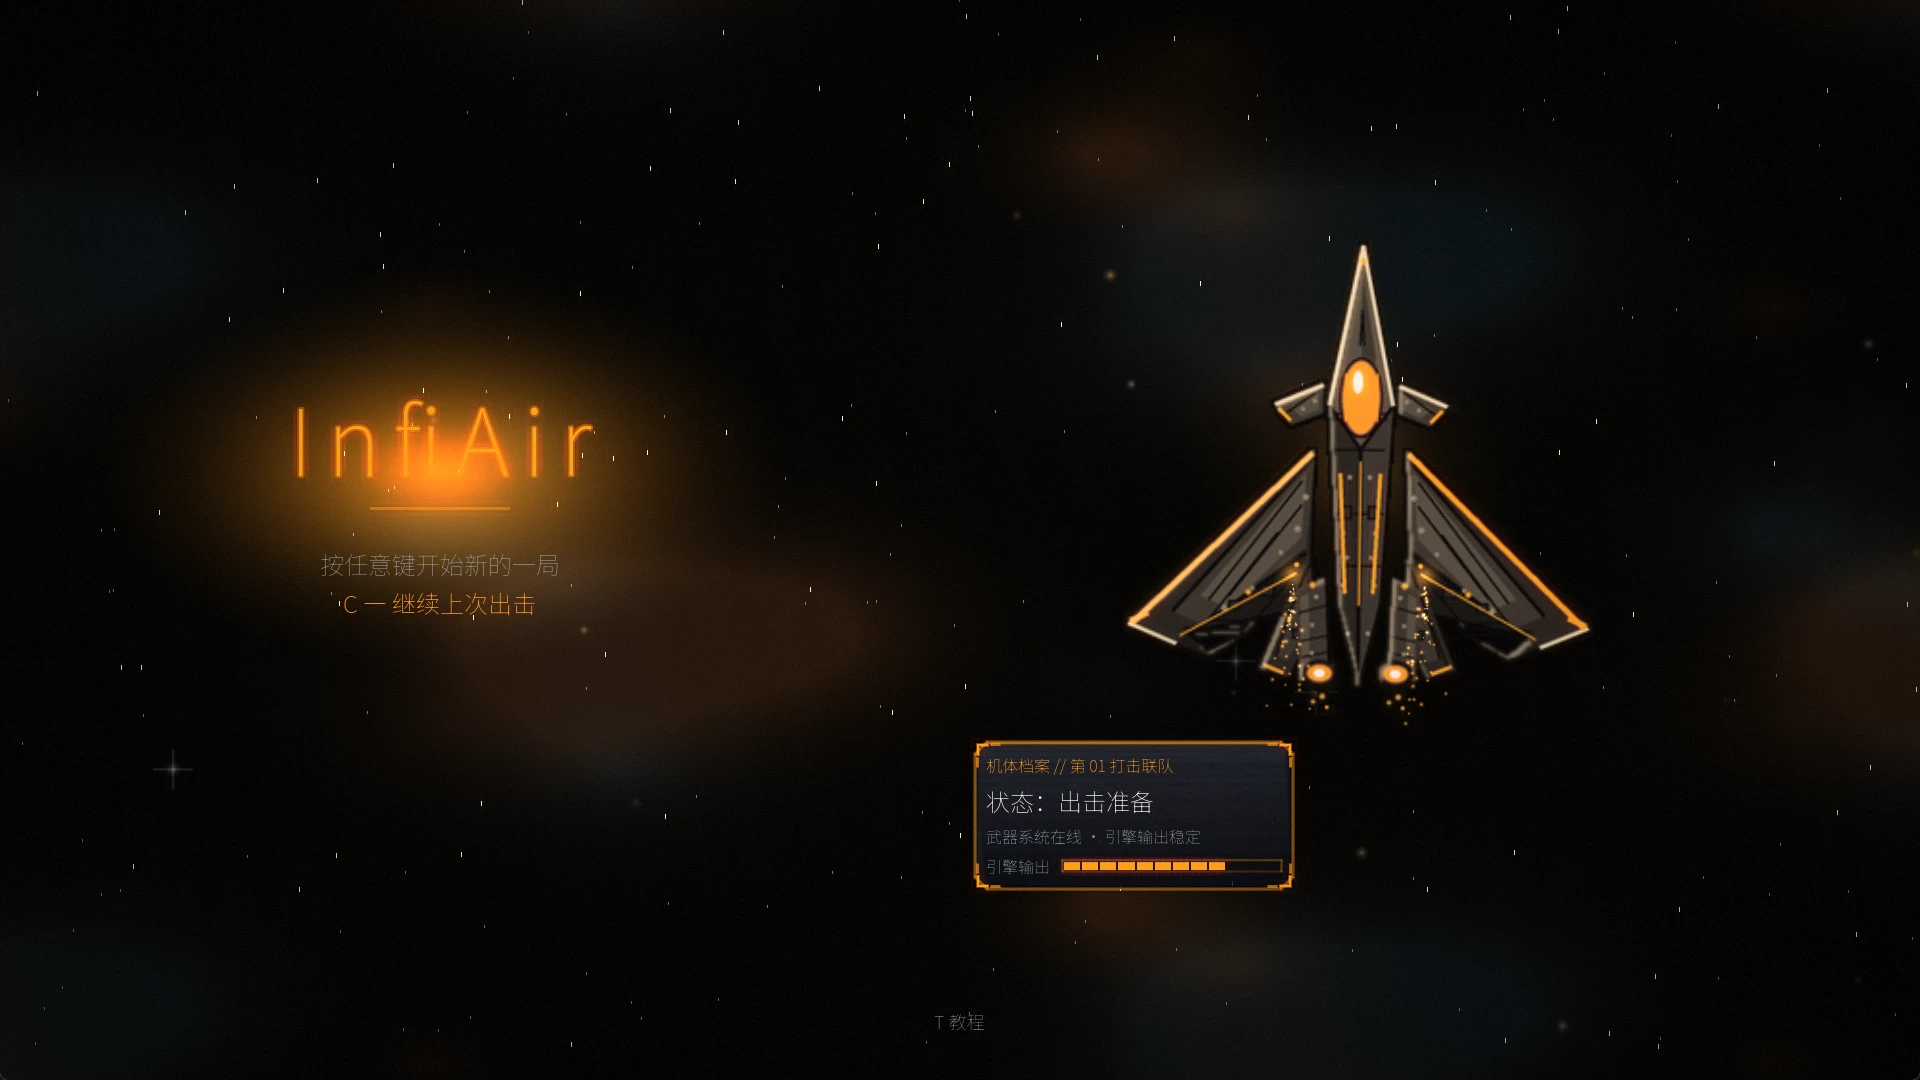
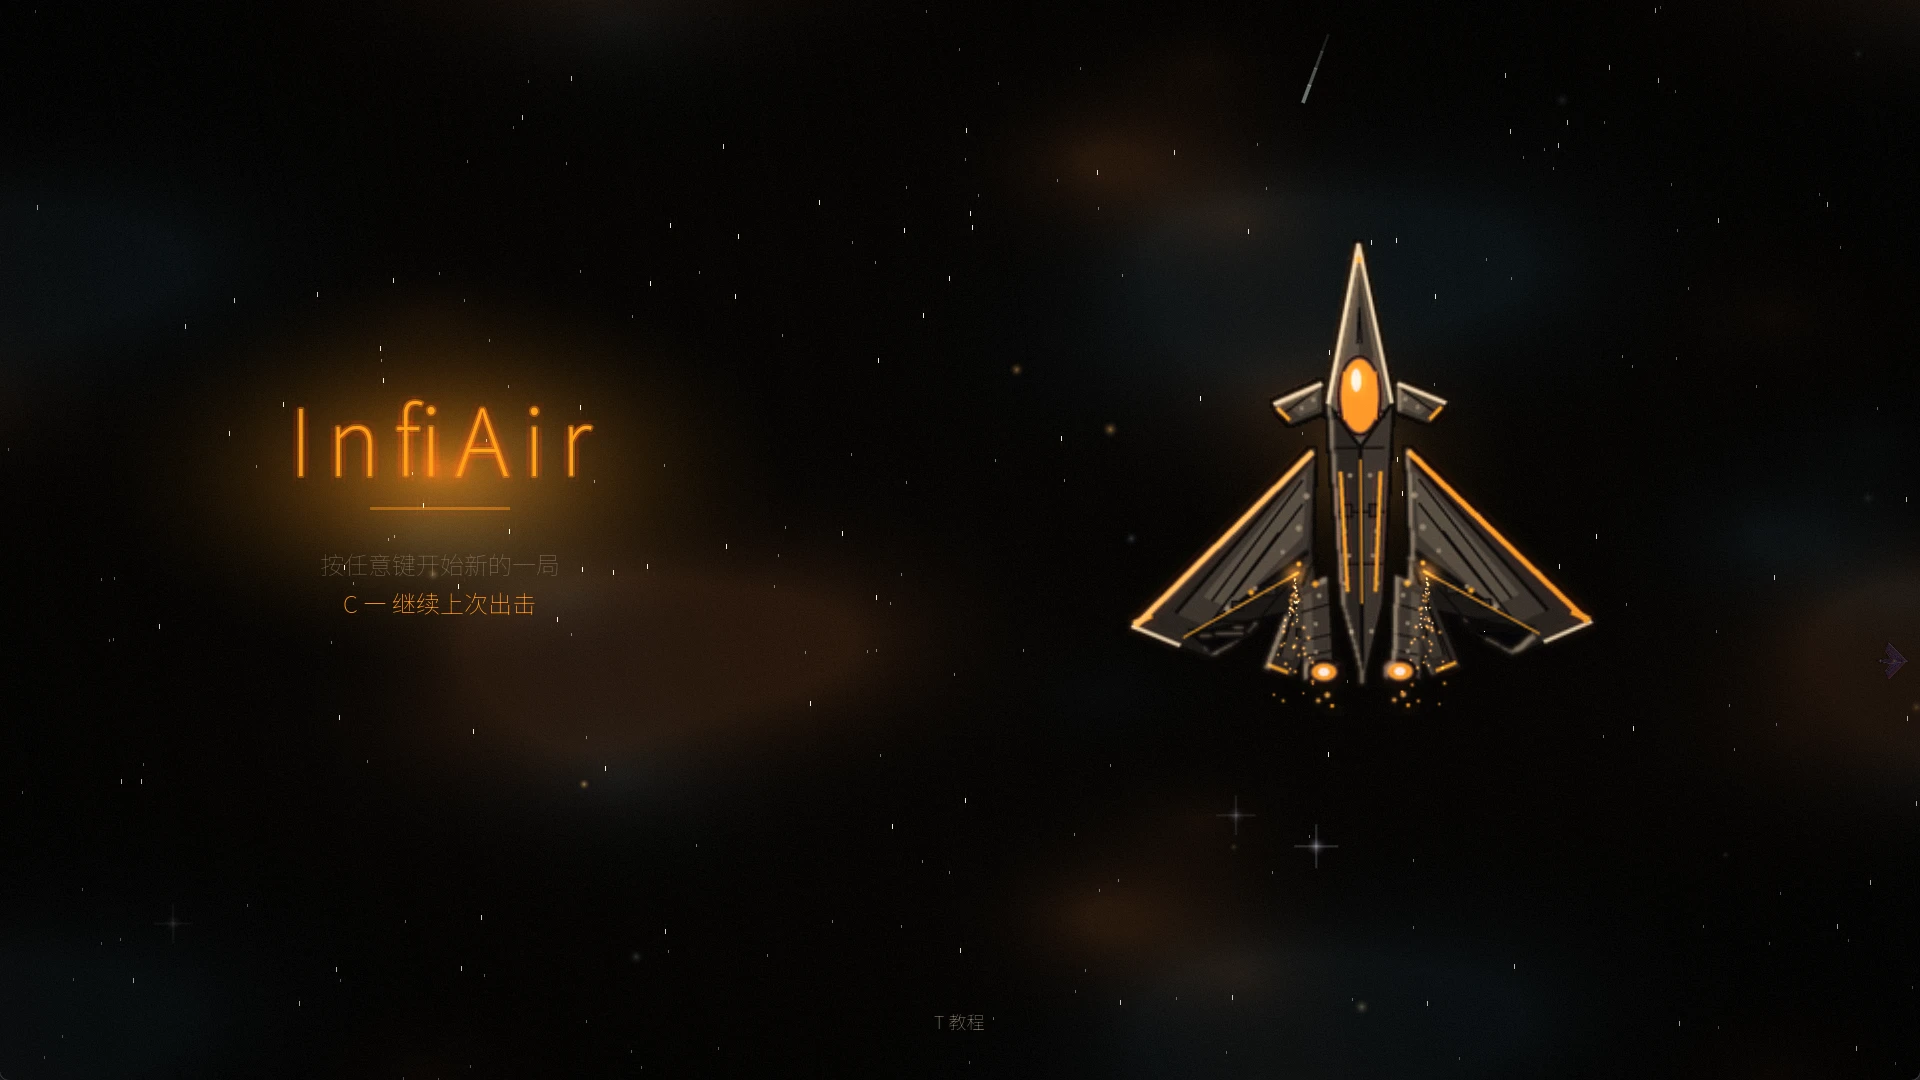
docs: README 截图与配色说明同步新配色
为什么：配色调整后旧截图（青色基地页）与「数据青辅助」描述双双失真，README 是
玩家第一入口，不能展示已不存在的配色。

Changed region(s): [[0.5938, 0.2139, 0.8438, 0.6722], [0.125, 0.3361, 0.3125, 0.55], [0.5, 0.6722, 0.6875, 0.825]]

diff --git a/README_EN.md b/README_EN.md
@@ -34,7 +34,7 @@ A single-player 2D top-down shoot-'em-up (danmaku / bullet hell). Pure endless a
 - **Precise bullet-hell feel** — auto-fire with combo scoring (3 s window, up to ×2), graze scoring, and a 360° parry that reflects enemy bullets back at their owners. Your hitbox is a 2.8 px core; grace frames and exit-trajectory settlement guarantee a direct hit always lands and only grazes get forgiven.
 - **Boss rotation & encounter events** — 4 bosses with phased patterns and enrage; fail to kill one within 50 s and it flees. Elite turrets, formation strikes and four interference fogs interleave under a strict priority chain — never two at once.
 - **Mothership & the Dawn Station** — charge-summon the mothership for fire support and a hangar pod, then return to the Dawn Station to refit: hangar, repair & resupply, route contracts and mission planning, spending RP on the way back out.
-- **Tactical-amber presentation** — deep charcoal-blue base with amber interaction accents and cyan data channels; hand-written screen-space post-processing (bloom / grade / vignette / grain) fills in what GL Compatibility lacks; heavy damage cracks the screen and sinks your heartbeat into it, with a flash-reduction toggle for accessibility.
+- **Tactical-amber presentation** — warm charcoal base with amber interaction accents; metal, hologram lines and text greys all sit in the same warm family (the old cool cyan is retired); hand-written screen-space post-processing (bloom / grade / vignette / grain) fills in what GL Compatibility lacks; heavy damage cracks the screen and sinks your heartbeat into it, with a flash-reduction toggle for accessibility.
 - **Window & performance options** — windowed / borderless fullscreen; five render resolution tiers (720p / 900p / 1080p / 1440p / 4K, filtered to your monitor), free window resizing that remembers custom sizes; 3-step view zoom; a six-tier FPS cap (60 / 120 / 144 / 165 / 180 / 240) plus vsync.
 - **The inevitable-death curve** — difficulty climbs without bound with boss kills and time; three difficulty tiers set your score multiplier (×1 / ×2 / ×3) and pacing; every number lives in a single `data/balance.json`.
 

diff --git a/README.md b/README.md
@@ -34,7 +34,7 @@
 - **精确的弹幕手感** — 自动开火 + 连击计分（3 秒窗口、最高 ×2）、擦弹得分、360° 弹反把敌弹原样奉还；受击判定只有 2.8px 的核心，宽限期与离场结算保证直击必中、擦边才免。
 - **Boss 轮换与遭遇事件** — 4 种 Boss 阶段弹幕 + 狂暴，50 秒打不死就逃逸；精英炮塔、编队突袭、四种干扰雾事件按优先级互斥穿插，同屏不乱套。
 - **母舰与黎明站** — 蓄力召唤母舰随行支援（火力平台 + 机库小窗），返回黎明站休整：战机库、维修补给、路线契约、任务规划，用 RP 换资源后继续出击。
-- **战术琥珀视觉** — 深炭蓝黑底、琥珀主交互、数据青辅助；世界层手写屏幕后处理（辉光 / 调色 / 晕影 / 颗粒）补足 GL Compatibility；重伤时屏幕碎裂、呼吸与心跳随血量下沉，可一键减弱闪烁。
+- **战术琥珀视觉** — 暖炭黑底、琥珀主交互，金属 / 全息线光 / 文字灰全部收在同族暖偏（冷青已退役）；世界层手写屏幕后处理（辉光 / 调色 / 晕影 / 颗粒）补足 GL Compatibility；重伤时屏幕碎裂、呼吸与心跳随血量下沉，可一键减弱闪烁。
 - **窗口与性能** — 窗口化 / 无边框全屏；渲染分辨率五档（720p / 900p / 1080p / 1440p / 4K，按显示器列档），窗口自由拖拽并记忆任意尺寸；视角三档缩放；帧率上限六档（60 / 120 / 144 / 165 / 180 / 240）+ 垂直同步开关。
 - **无尽必死曲线** — 难度随 Boss 击杀与时长无上限爬升，三档难度决定得分倍率（×1 / ×2 / ×3）与节奏；全部数值单源 `data/balance.json`。
 
